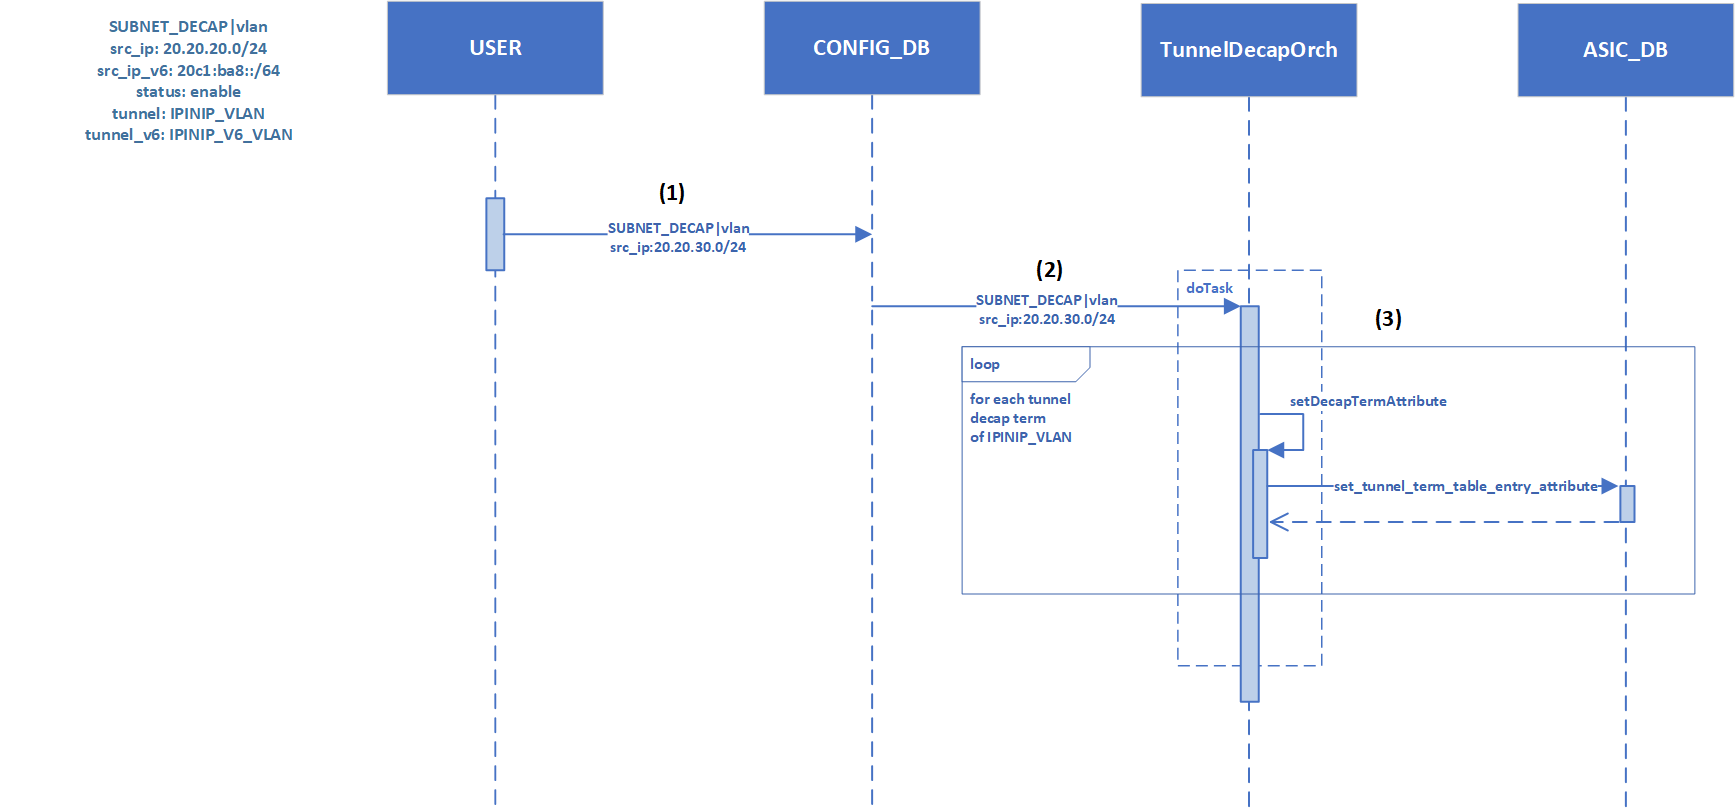
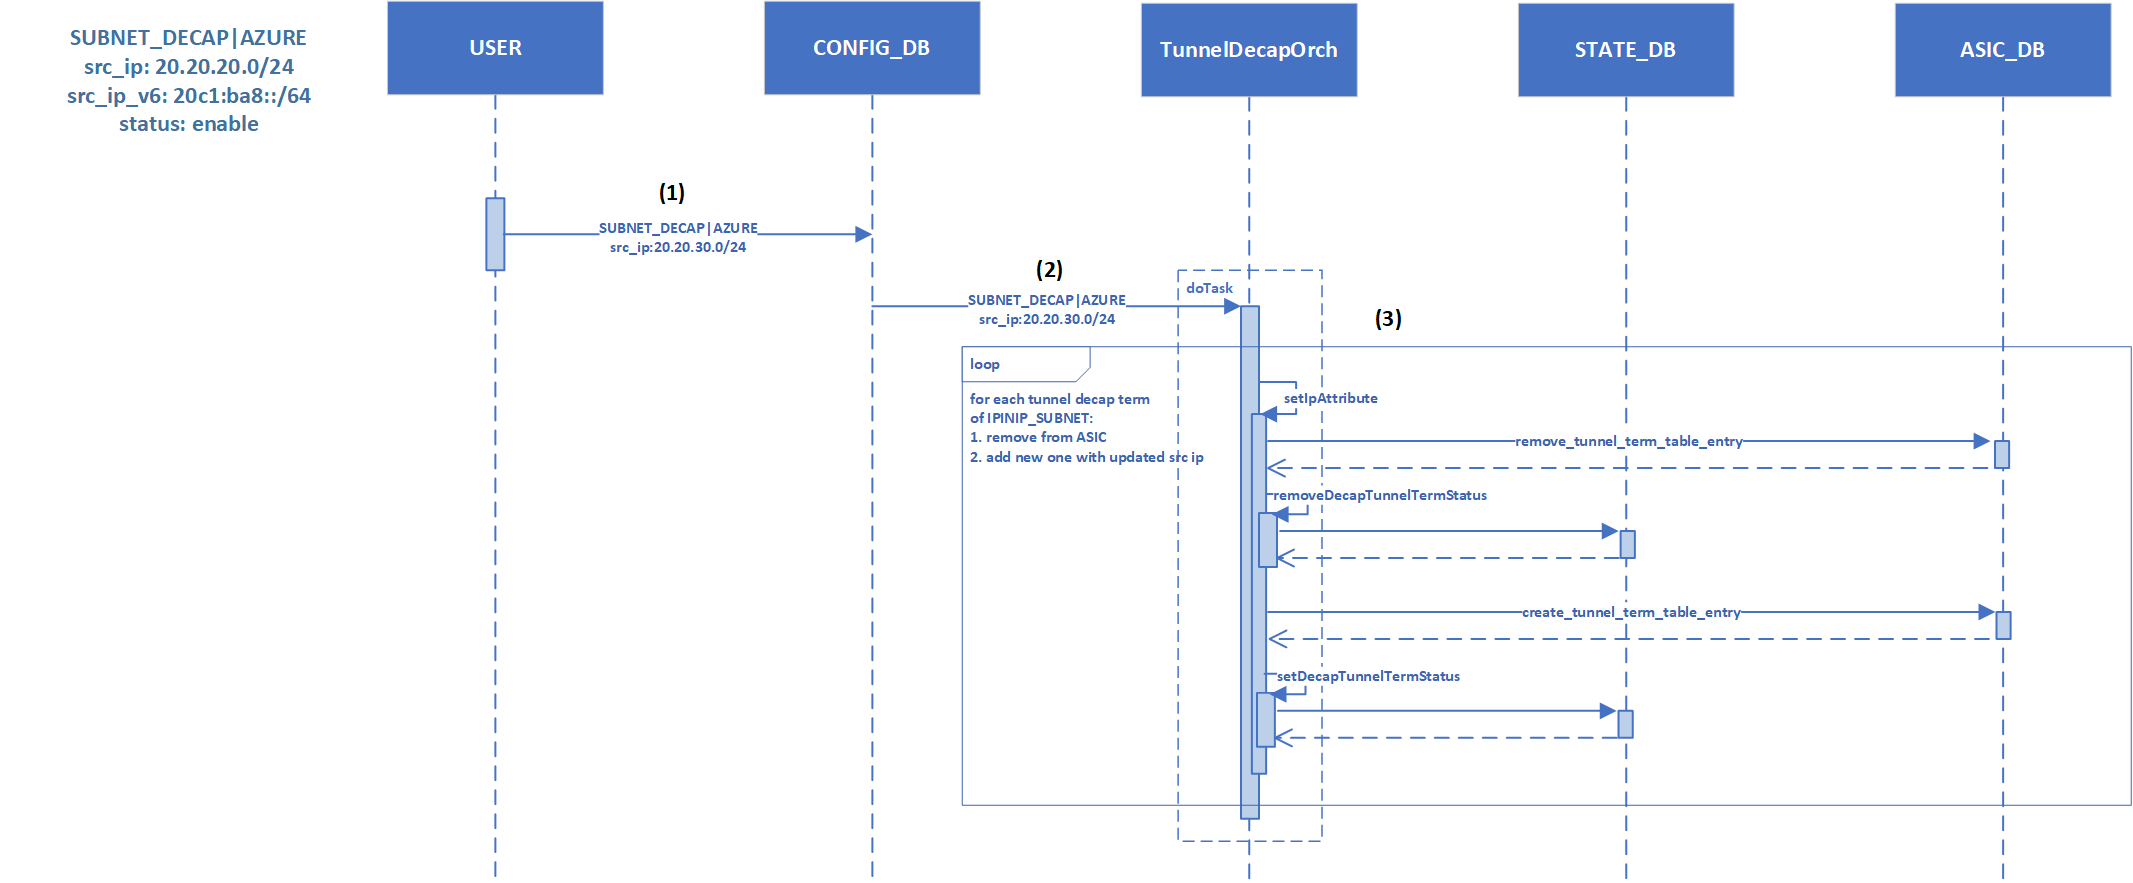
Fix comments
1. Update DB schema
2. Update workflows with new DB schema
3. Add warm-reboot and CLI sections

diff --git a/doc/decap/subnet_decap_HLD.md b/doc/decap/subnet_decap_HLD.md
@@ -51,7 +51,7 @@ This document describes the subnet decapsulation feature on T0 SONiC that allows
 
 ## 4 Overview
 
-In Azure, Netscan probes the network paths/devices by sending IPinIP traffic. The IPinIP packet crafted by the Netscan sender has the outer DIP equals the destination device Loopback address, and the inner DIP equals the IP address of the Netscan sender. When the IPinIP packet is routed to/received by the destination device, they will be decapsulated and the inner packet will be routed back to the Netscan sender.
+In Azure, Netscan probes the network paths/devices by sending IPinIP traffic. The IPinIP packet crafted by the Netscan sender has the outer DIP equals the destination device Loopback address, and the inner DIP equals the IP address of the Netscan sender. When the IPinIP packet is routed to/received by the destination device, they will be decapsulated and the inner packet will be routed back to the Netscan sender. With this probing, the Netscan sender has the awareness of any network link/device issues in the probe path by checking the receivement of the inner packets.
 As of today, Netscan uses this IP-decap based probing to detect route blackholes in the Azure network. The limitation is that Netscan is only able to probe the networking switches without the capability to detect any route blackholes for host nodes, especially VLAN subnet IPs. Due to the fact that the host nodes don’t have native IP-decap functionality, it is more appropriate to implement the IP-decap functionality on T0 SONiC as SONiC supports IPinIP decapsulation, and T0 SONiC will respond to the Netscan probes on behalf of the host nodes to decapsulate the Netscan IPinIP probe packets with DIP as any VLAN subnet IPs.
 In this design, subnet decap is introduced to enhance SONiC with the capability to generate the decap rules for the VLAN subnet so IPinIP packets from Netscan with DIP as either VLAN subnet IPs could be decapsulated and forwarded back to the Netscan sender to allow Netscan to have the awareness of any possible route blackholes to those destinations.
 
@@ -78,13 +78,13 @@ In this design, we propose the subnet decap feature that has workflow to enable 
 ### 6.1 Tunnel Specification
 
 The tunnels in this design will be generated with the following attributes:
-| Attribute       | Value                         | Note                             |
-| --------------- | ----------------------------- | -------------------------------- |
-| name            | IPINIP_VLAN or IPINIP_V6_VLAN | One IPv4 tunnel, one IPv6 tunnel |
-| tunnel type     | IPinIP                        |                                  |
-| decap ECN mode  | copy_from_outer or standard   |                                  |
-| decap TTL mode  | pipe                          |                                  |
-| decap DSCP mode | uniform                       |                                  |
+| Attribute       | Value                             | Note                             |
+| --------------- | --------------------------------- | -------------------------------- |
+| name            | IPINIP_SUBNET or IPINIP_V6_SUBNET | One IPv4 tunnel, one IPv6 tunnel |
+| tunnel type     | IPinIP                            |                                  |
+| decap ECN mode  | copy_from_outer or standard       |                                  |
+| decap TTL mode  | pipe                              |                                  |
+| decap DSCP mode | uniform                           |                                  |
 
 The decapsulation termination entry will be created with the following attributes:
 | Attribute       | Value                               | Note                                                                                                                     |
@@ -102,10 +102,14 @@ The decapsulation termination entry will be created with the following attribute
 ```
 ### SUBNET_DECAP
     ; Stores subnet based decapsulation configurations
-    key                 = SUBNET_DECAP|subnet_type                      ; SUBNET_DECAP|vlan
+    key                 = SUBNET_DECAP|config_name
     status              = "enable"/"disable"                            ; status of subnet based decapsulation
-    src_ip              = source IP prefix                              ; source IP prefix used for decap terms of IPv4 tunnel
-    src_ip_v6           = source IP prefix                              ; source IPv6 prefix used for decap terms of IPv6 tunnel
+    src_ip              = source IP prefix                              ; source IP prefix used for tunnel
+    src_ip_v6           = source IP prefix                              ; source IPv6 prefix used for tunnel_v6
+    vlan                = list of enable VLAN                           ; comma separated list of VLANs to enable
+                                                                        ; subnet decap, if status is enable and this
+                                                                        ; list is empty, subnet decap will apply to
+                                                                        ; all VLANs
 ```
 
 #### 6.2.2 APPL_DB
@@ -123,8 +127,11 @@ The decapsulation termination entry will be created with the following attribute
 ### TUNNEL_DECAP_TERM_TABLE
     ; Stores a list of decap terms.
     key                 = TUNNEL_DECAP_TERM_TABLE:tunnel_name:dst_ip    ; tunnel name:dst IP prefix as key
-    term_type           = "P2P"/"P2MP"/"MP2MP"                          ; tunnel decap term type
-    src_ip              = source IP prefix
+    term_type   	      = "P2P"/"P2MP"/"MP2MP"                          ; tunnel decap term type
+    src_ip              = source IP prefix                              ; for decap terms of subnet decap, the
+                                                                        ; source IP is omitted
+    subnet_type         = "vlan"/"vip"                                  ; the subnet type of the dst IP prefix, present
+                                                                        ; if this is a subnet decap term
 ```
 
 #### 6.2.3 STATE_DB
@@ -144,6 +151,8 @@ The decapsulation termination entry will be created with the following attribute
     key                 = TUNNEL_DECAP_TERM_TABLE:tunnel_name:dst_ip    ; tunnel name:dst IP prefix as key
     term_type           = "P2P"/"P2MP"/"MP2MP"                          ; tunnel decap term type
     src_ip              = source IP prefix
+    subnet_type         = "vlan"/"vip"                                  ; the subnet type of the dst IP prefix, present
+                                                                        ; if this is a subnet decap term
 ```
 
 ### 6.3 Orchestration Agent
@@ -183,12 +192,31 @@ The following picture describes the workflow:
 
 ### 6.6 CLI
 
-TBD
+* `show tunnel brief`: lists out the tunnels created.
+
+```
+# show tunnel
+Tunnel Name       Type    Dscp Mode    ECN Mode         TTL Mode
+----------------  ------  -----------  ---------------  ----------
+IPINIP_TUNNEL     IPINIP  uniform      copy_from_outer  pipe
+IPINIP_V6_TUNNEL  IPINIP  uniform      copy_from_outer  pipe
+IPINIP_SUBNET     IPINIP  uniform      copy_from_outer  pipe
+IPINIP_V6_SUBNET  IPINIP  uniform      copy_from_outer  pipe
+```
+
+* `show tunnel decap`: lists out the tunnel decap terms created.
+
+```
+Dst IP         Src IP         Tunnel Name    Decap Term Type
+-------------  -------------  -------------  -----------------
+192.168.0.1    N/A            IPINIP_TUNNEL  P2MP
+10.10.10.0/24  20.20.20.0/24  IPINIP_SUBNET  MP2MP
+```
 
 ## 7 Warm Reboot Support
 
-TBD
+Currently, SONiC doesn’t load `ipinip.json` after warm-reboot. As two new subnet decap tunnels (`IPINIP_SUBNET` and `IPINIP_V6_SUBNET`) are introduced by this design, `swssconfig.sh` shall be enhanced to write only those two extra tunnel entries from `ipinip.json` to APPL_DB TUNNEL_DECAP_TABLE without making duplicated writes to existing tunnels after warm-reboot.
 
 ## 8 Test Plan
 
-TBD
+The test plan will be added later based on the requirement.
